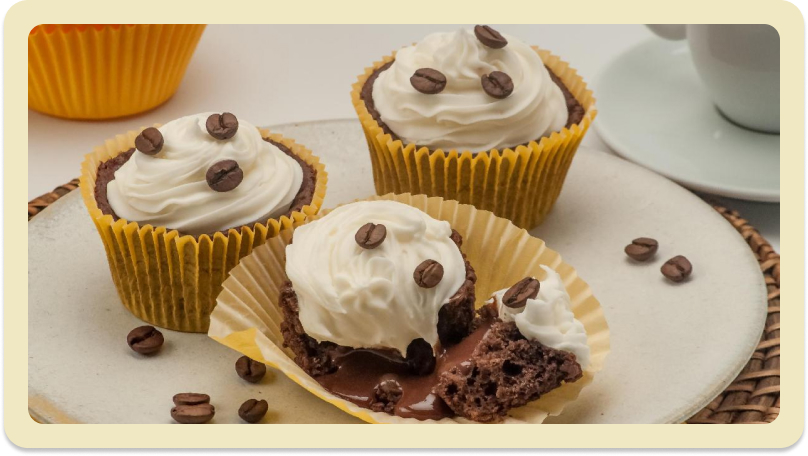
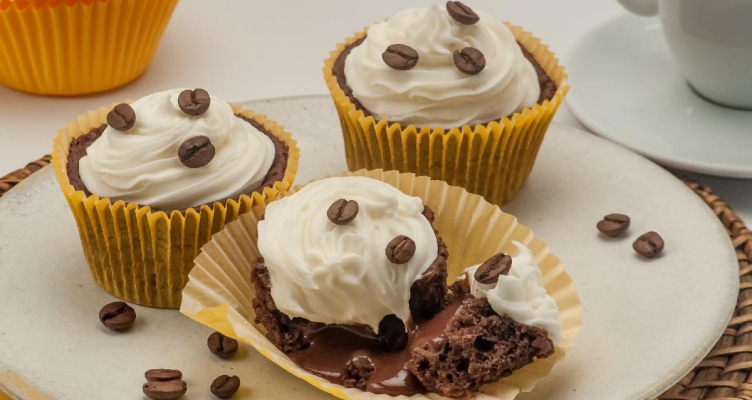
add images and styles

diff --git a/style.css b/style.css
@@ -1,0 +1,17 @@
+body {
+    background-image: url("assets/bg.jpg");
+    background-size: cover;
+}
+
+#page {
+    box-sizing: border-box;
+    width: 800px;
+    padding: 24px;
+    border-radius: 25px;
+    background-color: #F0E8C2;
+    margin: 48px auto;
+}
+
+img {
+    border-radius: 16px;
+}
